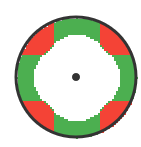
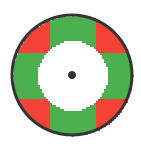
Updated readme, added images

Changed region(s): [[0.0567, 0.0816, 0.9929, 0.9524], [0.4823, 0.4626, 0.5674, 0.5714]]

diff --git a/README.md b/README.md
@@ -1,6 +1,8 @@
 # Concave Actuator
 A 3d printed concave actuator for an IL/Eurostick
 
+![Sanwa-style round actuator and square gate](images/concave-actuator-render.png)
+
 ## Why would I want this?
 
 A normal sanwa joystick has plunger switches and a round actuator. If you look at the geometry when it makes contact with the switches, it is more sensitive at cardinal angles, and the activation map looks like this:
@@ -19,7 +21,7 @@ An IL/Eurostick joystick uses square actuator and a round "collar" which means t
 
 You also get a near identical activation map from a Seimitsu or Korean-lever style with lever switches and a round actuator.
 
-The observation that prompted this is, what does it look like if we had non-square sides? Using the same actuator simulator making cutouts in the side you can get an activation map that looks like this:
+The observation that prompted this is, what does it look like if we had non-square sides? Using the same actuator simulator making shallow round cutouts in the side you can get an activation map that looks like this:
 
 ![Square actuator](images/concave-actuator.png)
 
@@ -34,3 +36,9 @@ In my time spent tinkering with sticks, the most desirable properties are:
 3. Shallow cardinal zones (makes dashing faster)
 
 A concave actuator can achieve these properties better than other actuator types.
+
+# Releases
+
+In the releases you can find pre-bilt zip files that have a number of actuator shapes to experiment with, with sizes that show the width and depth of the cutout.
+
+In my personal testing I found a width of 6mm and depth of 1mm to feel nice.
